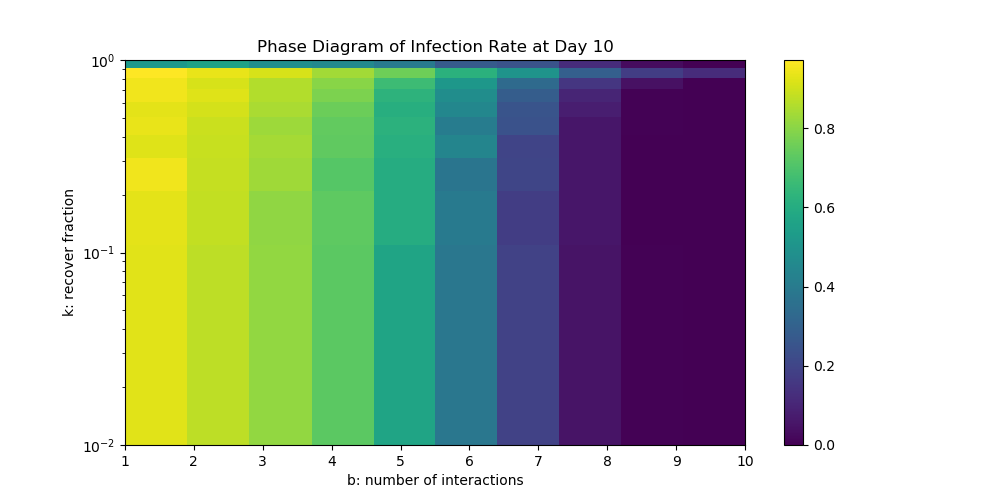
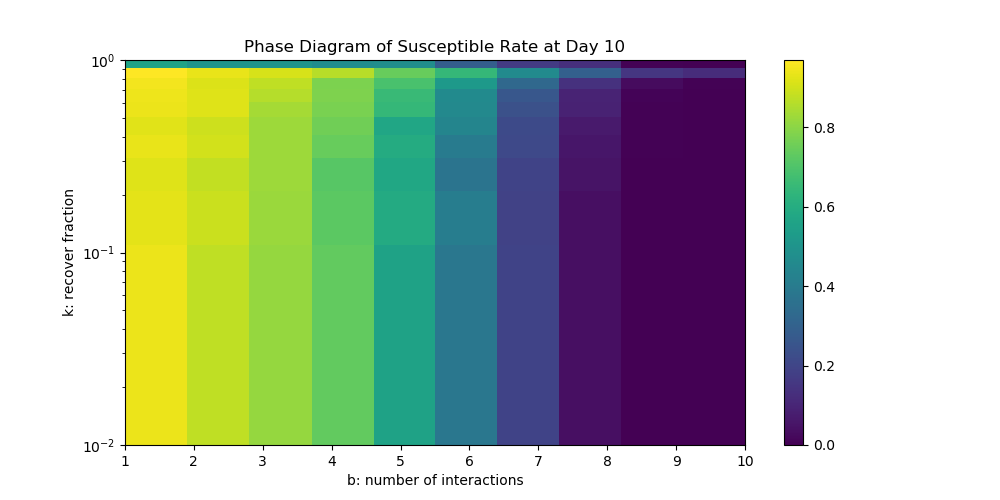
change plot title

Changed region(s): [[0.248, 0.06, 0.62, 0.12], [0.806, 0.39, 0.837, 0.42], [0.806, 0.24, 0.837, 0.27]]

diff --git a/scripts/agent_simulation.py b/scripts/agent_simulation.py
@@ -72,30 +72,30 @@ def run_sim(b, k, N, T):
 # simulation for bs and ks
 T = 100
 N = 1000
-#for facet plot
-f_bs = np.arange(1, 11, 2, dtype=np.int64)
-f_ks = np.logspace(-2, 0, 5)
-f_results = np.zeros((len(f_bs), len(f_ks), T+1, 3)) # empty container
-
-for i, b in enumerate(f_bs):
-    for j, k in enumerate(f_ks):
-        counts_sir = run_sim(b,k,N,T) # shape = (T+1, 3), columns are S, I, R
-        f_results[i,j,...] = counts_sir / N # convert to fractions, store in results
-
-# facet plot
-f, ax = plt.subplots(len(f_bs), len(f_ks), figsize=(20, 16), sharex=True, sharey=True)
-for i, b in enumerate(f_bs):
-     for j, k in enumerate(f_ks):
-        ode.plot_sim(f_results[i,j].T, b, k, ax[i,j], accessory=False)
-
-for i, b in enumerate(f_bs):
-    ax[i, 0].set_ylabel("b = {}".format(b))
-for j, k in enumerate(f_ks):
-    ax[0, j].set_title("k = {:.2f}".format(k))
-ax[0, -1].legend()
-f.text(0.5, 0.08, 'Time', ha='center', fontsize=14)
-f.text(0.08, 0.5, 'Fraction of People', va='center', rotation='vertical', fontsize=14)
-plt.savefig("../output/agent_facet_plot.png")
+# #for facet plot
+# f_bs = np.arange(1, 11, 2, dtype=np.int64)
+# f_ks = np.logspace(-2, 0, 5)
+# f_results = np.zeros((len(f_bs), len(f_ks), T+1, 3)) # empty container
+#
+# for i, b in enumerate(f_bs):
+#     for j, k in enumerate(f_ks):
+#         counts_sir = run_sim(b,k,N,T) # shape = (T+1, 3), columns are S, I, R
+#         f_results[i,j,...] = counts_sir / N # convert to fractions, store in results
+#
+# # facet plot
+# f, ax = plt.subplots(len(f_bs), len(f_ks), figsize=(20, 16), sharex=True, sharey=True)
+# for i, b in enumerate(f_bs):
+#      for j, k in enumerate(f_ks):
+#         ode.plot_sim(f_results[i,j].T, b, k, ax[i,j], accessory=False)
+#
+# for i, b in enumerate(f_bs):
+#     ax[i, 0].set_ylabel("b = {}".format(b))
+# for j, k in enumerate(f_ks):
+#     ax[0, j].set_title("k = {:.2f}".format(k))
+# ax[0, -1].legend()
+# f.text(0.5, 0.08, 'Time', ha='center', fontsize=14)
+# f.text(0.08, 0.5, 'Fraction of People', va='center', rotation='vertical', fontsize=14)
+# plt.savefig("../output/agent_facet_plot.png")
 
 #for phase diagram
 p_bs = np.arange(1, 11, dtype=np.int64)
@@ -115,5 +115,5 @@ plt.yscale('log')
 plt.axis('auto')
 plt.xlabel('b: number of interactions')
 plt.ylabel('k: recover fraction')
-plt.title('Phase Diagram of Infection Rate at Day {}'.format(t))
+plt.title('Phase Diagram of Susceptible Rate at Day {}'.format(t))
 plt.savefig("../output/agent_phase_plot.png")
